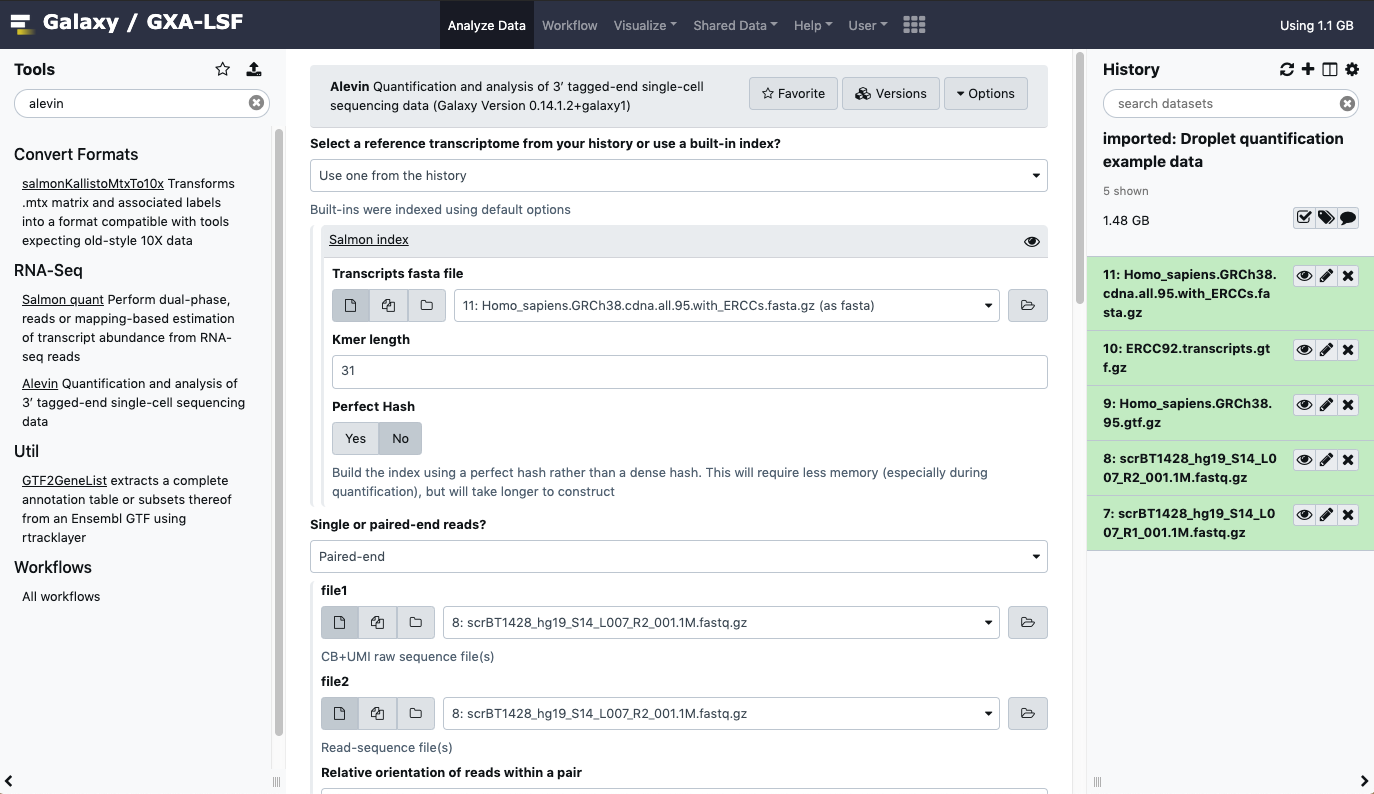
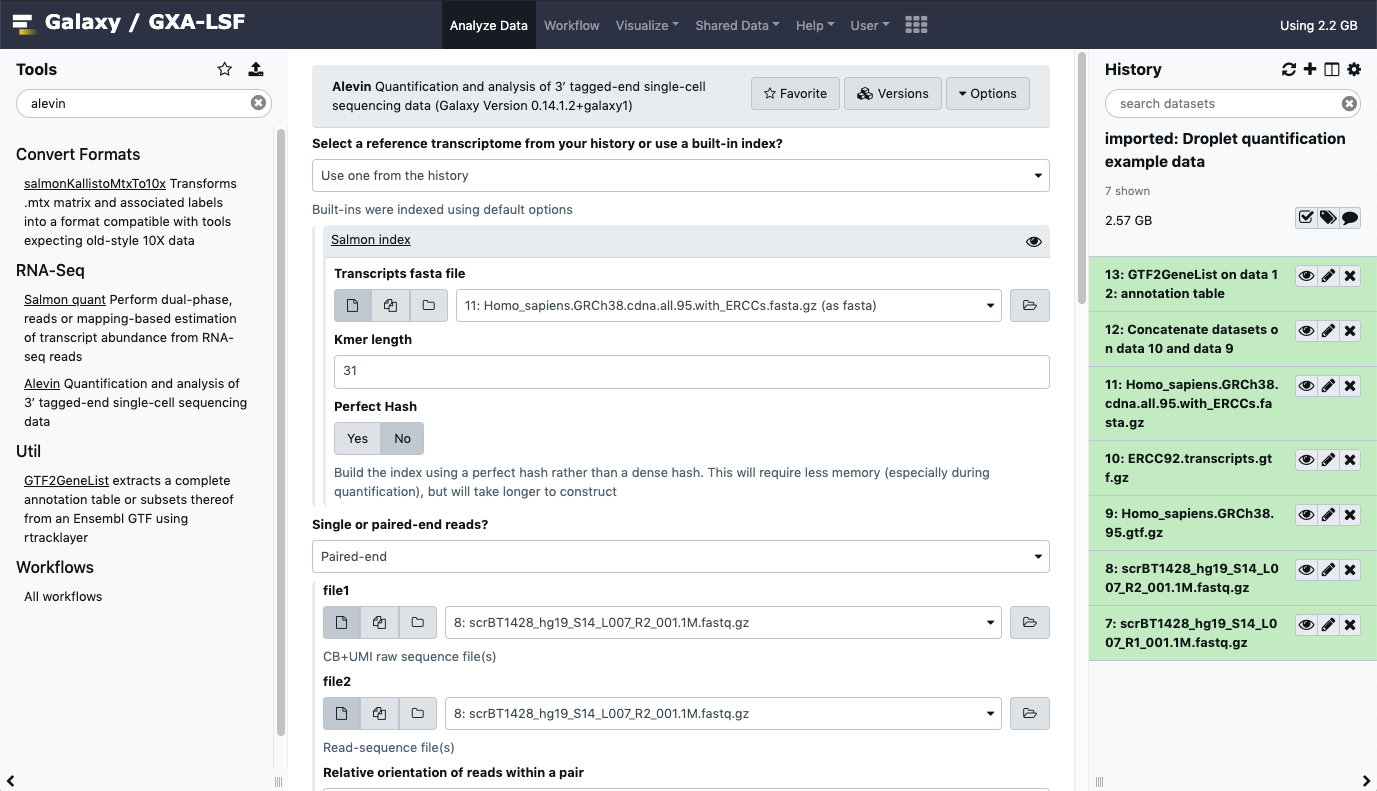
Added droplet barcode plots

diff --git a/generating_an_expression_matrix/README.md b/generating_an_expression_matrix/README.md
@@ -108,12 +108,32 @@ We can now run Alevin. Locate the tool by searching with the 'search tools' box.
 
 ![The Alevin tool](alevin.png)
 
-> EXERCISE: Using [Alevin's documentation](https://salmon.readthedocs.io/en/latest/alevin.html), what you know of the protocol used in this experiment (see above), and what you identified by examining the read files, set the options appropriately and run Alevin to produce a matrix market format (MTX) format output. Many options can be left unset.
+> EXERCISE: Using [Alevin's documentation](https://salmon.readthedocs.io/en/latest/alevin.html), what you know of the protocol used in this experiment (see above), and what you identified by examining the read files, set the options appropriately and run Alevin to produce a matrix market format (MTX) format output. Try to determine the correct library options yourself, but do activate MTX output, select 'dumpFeatures' and do click 'Retrieve all output files'. Many options can be left unset.
 
+Becuase we're only using a million or so reads Alevin will run quickly, taking a few minutes or so to run.
 
+> EXERCISE: Once you've run Alevin: what's the mapping rate?
 
+### 4. Basic QC with barcode rank plots
 
+Congratulations- you've made an expression matrix! We could almost stop here. But it's sensible to do some basic QC, and one of the things we can do is look at a barcode rank plot.
 
+The question we're looking to answer here, is: "do we have mostly a have single cell per droplet"? That's what experimenters are normally aiming for, but it's not entirely straightforward to get exactly one cell per droplet. Sometimes almost no cells make it into droplets, other times we have too many droplets with two or more cells. But at a minimum, we should easily be able to distiguish droplets with cells from those without. 
 
+Locate the barcode rank plot by searching for it in the search box. Select 'No' to input MTX, and select the 'raw_cb_frequencies.txt' file you should hae in your history from running Alevin. If you do not, then you didn't select 'dumpFeatures' when you ran Alevin- so go back and try again. Set a title if you wish, but leave other options at defaults. 
 
+[droplet barcode plot tool](droplet_barcode_tool.png)
 
+You'll end up with a plot like: 
+
+[barcode plot from raw barcode counts](barcodes_raw.png)
+
+This is our own formulation of the barcode plot based on a [discussion](https://github.com/COMBINE-lab/salmon/issues/362#issuecomment-490160480) we had with community members. The left hand plot is the main one, showing the counts for individual cell barcodes ranked from high to low. We expect a sharp drop-off between cell-containing droplets and ones that are empty or contain only cell debris. The right hand plot is a density from the first one, and the thresholds are generated either using [dropletUtils](https://bioconductor.org/packages/release/bioc/html/DropletUtils.html) or by the method described in that discussion. We use any of these thresholds to select cells, assuming that anything with fewer counts is not a valid cell. By default, Alevin does something similar, and we can learn something about by plotting just the barcodes Alevin retains. Go back and re-run the droplet barcode plot, this time selecting MTX input (quants_mat.mtx.gz). You will need to select the option to assume cells are by row (more on that later). 
+
+[droplet barcode plot tool](droplet_barcode_tool2.png)
+
+This will use the actual sum of cell-wise counts produced in Alevin's outputs to make the plot. The output will be like:
+
+[barcode plot from processed barcode counts](barcodes_processed.png)
+
+You should see a completely vertical drop-off where Alevin has trunctated the distribution. 
